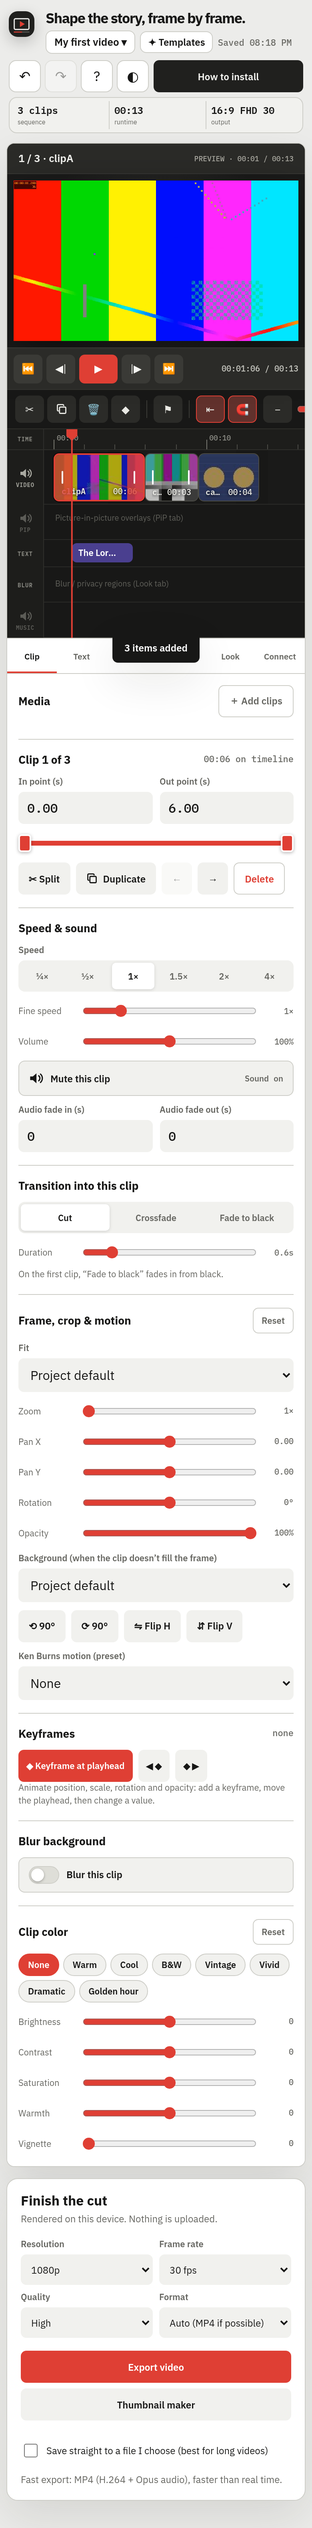
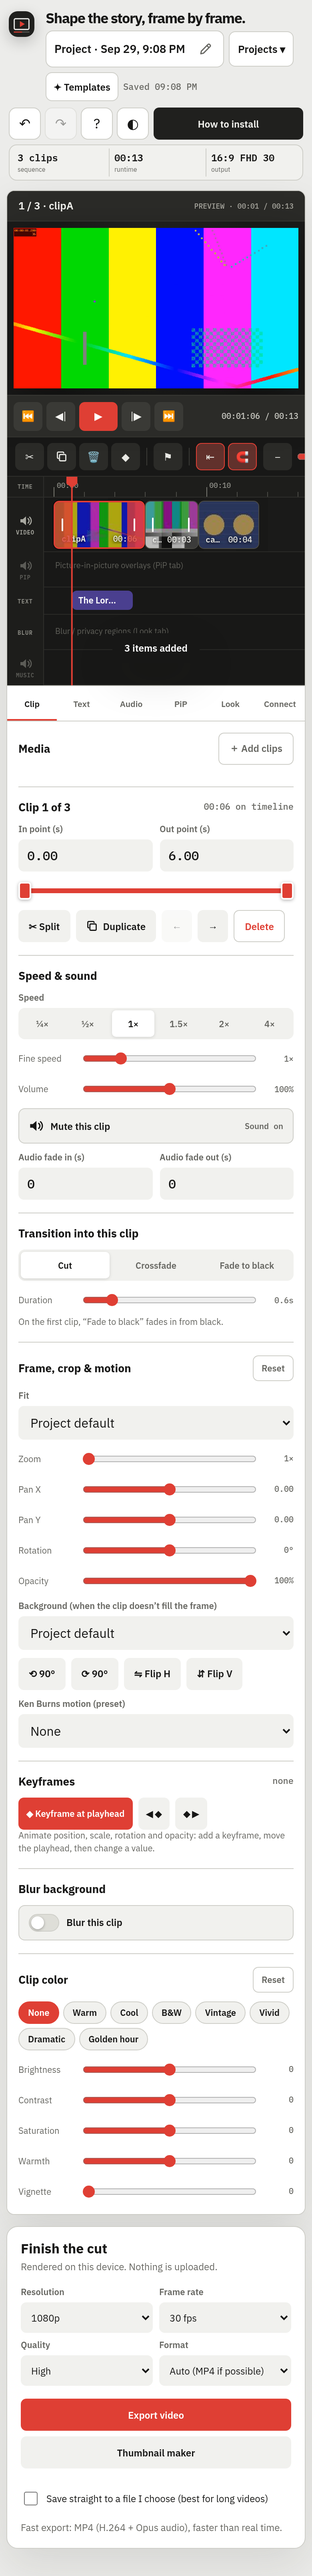
Project names: dated friendly defaults, editable header name with pencil, migrate Untitled project, richer project list

diff --git a/js/app.js b/js/app.js
@@ -10,7 +10,7 @@ import {
   newProject, migrate, layout, clipAt, clipLen, audioLen, newClipFromMedia, newText, newAudio, removeClip, duplicateClip,
   moveClip, rippleShift, History, PRESETS, FONTS, outputDims, defaultColor, defaultTransform, MIN_CLIP,
   newOverlay, overlayLen, animated, hasKeyframes, setKeyframe, kfTimes, removeKeyframesAt, setEaseAt, ANIM_PROPS, normalizeClip,
-  splitItem, audioSpan, rebaseKeyframes, overlaysAt, overlaySourceTime, thumbFormat, newBlur, animPropsOf, cleanBlur, cleanClipBlur, textLabel, blurLabel,
+  splitItem, audioSpan, defaultProjectName, cleanProjectName, fixedProjectName, rebaseKeyframes, overlaysAt, overlaySourceTime, thumbFormat, newBlur, animPropsOf, cleanBlur, cleanClipBlur, textLabel, blurLabel,
 } from './model.js';
 import { Compositor, drawLogo, ensureFonts, fontCss, wrapLines, TEXT_ANIMS_IN, TEXT_ANIMS_OUT } from './render.js';
 import { TEMPLATES, paintBackground } from './templates.js';
@@ -180,6 +180,7 @@ function renderAll() {
   $('undoBtn').disabled = !app.history.canUndo;
   $('redoBtn').disabled = !app.history.canRedo;
   $('projectName').textContent = app.project.name;
+  $('projectNameBtn').title = app.project.name + ' (tap to rename)';
   document.title = app.project.name + ' · Video Editor';
 }
 function syncHeads() {
@@ -1242,7 +1243,7 @@ async function openProject(id) {
 async function createProject(name) {
   if (app.ready) await flushPendingSave();
   player.pause();
-  app.project = newProject(name || 'Untitled project');
+  app.project = newProject(cleanProjectName(name) || defaultProjectName());
   app.selection = null; app.history.reset(app.project);
   releaseUnusedMedia();
   await saveNow();
@@ -1250,6 +1251,39 @@ async function createProject(name) {
   refreshCaps();
 }
 app.openProject = openProject;
+/** "Sep 29, 8:52 PM" (locale aware); the year only for another year. */
+function editedLabel(t) {
+  const d = new Date(t || Date.now()), o = { month: 'short', day: 'numeric', hour: 'numeric', minute: '2-digit' };
+  if (d.getFullYear() !== new Date().getFullYear()) o.year = 'numeric';
+  try { return new Intl.DateTimeFormat(undefined, o).format(d).replace(/[\u202f\u00a0]/g, ' '); } catch { return d.toLocaleString(); }
+}
+// Header project name: tap the name (or the pencil) to edit in place. Enter / leaving the field saves, Esc cancels,
+// empty falls back to the dated default name, 80 characters at most. One undo step.
+(() => {
+  const wrap = $('pnameWrap'), btn = $('projectNameBtn'), inp = $('projectNameInput'), pen = $('renameProjectBtn');
+  let cancelled = false, editing = false;
+  const stop = () => { editing = false; inp.hidden = true; btn.hidden = false; pen.hidden = false; wrap.classList.remove('editing'); };
+  const start = () => {
+    if (editing) return; editing = true; cancelled = false;
+    inp.value = app.project.name; btn.hidden = true; pen.hidden = true; inp.hidden = false; wrap.classList.add('editing');
+    inp.focus(); inp.select();
+  };
+  const save = () => {
+    if (!editing) return;
+    const n = cleanProjectName(inp.value) || defaultProjectName(app.project.created);
+    stop();
+    if (n !== app.project.name) { app.project.name = n; app.commit('Rename project'); toast('Project renamed'); }
+    btn.focus();
+  };
+  btn.addEventListener('click', start); pen.addEventListener('click', start);
+  inp.addEventListener('keydown', (e) => {
+    e.stopPropagation();
+    if (e.key === 'Enter') { e.preventDefault(); save(); }
+    else if (e.key === 'Escape') { e.preventDefault(); cancelled = true; stop(); btn.focus(); }
+  });
+  inp.addEventListener('blur', () => { if (editing && !cancelled) save(); });
+  app.editProjectName = start;
+})();
 async function renderProjectList() {
   const list = $('projectList'); list.replaceChildren();
   const projects = await db.listProjects();
@@ -1258,14 +1292,16 @@ async function renderProjectList() {
     let thumb = '';
     if (first) { const m = await media.get(first.mediaId); thumb = m && m.strip ? m.strip[0] : ''; }
     const dur = layout(migrate(p)).total;
-    const card = el('div', { class: 'project-card' + (p.id === app.project.id ? ' current' : '') },
+    const shown = p.id === app.project.id ? app.project.name : fixedProjectName(p);
+    const card = el('div', { class: 'project-card' + (p.id === app.project.id ? ' current' : ''), 'aria-current': p.id === app.project.id ? 'true' : null },
       el('div', { class: 'pthumb', style: thumb ? { backgroundImage: `url(${thumb})` } : {} }),
       el('div', {},
-        el('h3', { text: p.name }),
-        el('div', { class: 'pmeta', text: `${(p.clips || []).length} clips · ${fmt(dur)} · edited ${new Date(p.updated).toLocaleString()}` }),
+        el('h3', { title: shown }, shown, p.id === app.project.id ? el('span', { class: 'ptag', text: 'Current' }) : null),
+        el('div', { class: 'pmeta', text: `${(p.clips || []).length} ${(p.clips || []).length === 1 ? 'clip' : 'clips'} · ${fmt(dur)}` }),
+        el('div', { class: 'pmeta', text: 'Last edited ' + editedLabel(p.updated) }),
         el('div', { class: 'button-row' },
           el('button', { class: 'btn primary small', type: 'button', text: p.id === app.project.id ? 'Open (current)' : 'Open', onclick: async () => { await openProject(p.id); closeDialog('projectsDialog'); } }),
-          el('button', { class: 'btn secondary small', type: 'button', text: 'Rename', onclick: async () => { const n = prompt('Project name', p.name); if (!n) return; if (p.id === app.project.id) { app.project.name = n; app.commit('Rename'); await saveNow(); } else { p.name = n; p.updated = Date.now(); await db.saveProject(p); } renderProjectList(); renderAll(); } }),
+          el('button', { class: 'btn secondary small', type: 'button', text: 'Rename', onclick: async () => { const n0 = prompt('Project name', shown); if (n0 === null) return; const n = cleanProjectName(n0) || defaultProjectName(p.created || p.updated); if (p.id === app.project.id) { app.project.name = n; app.commit('Rename project'); await saveNow(); } else { p.name = n; p.updated = Date.now(); await db.saveProject(p); } renderProjectList(); renderAll(); } }),
           el('button', { class: 'btn secondary small', type: 'button', text: 'Duplicate', onclick: async () => { if (p.id === app.project.id) await saveNow(); const src = p.id === app.project.id ? JSON.parse(JSON.stringify(app.project)) : p; const c = { ...deepClone(src), id: uid('prj'), name: src.name + ' copy', created: Date.now(), updated: Date.now() }; await db.saveProject(c); renderProjectList(); toast('Project duplicated'); } }),
           el('button', { class: 'btn secondary small', type: 'button', text: 'Export', onclick: () => exportProjectFile(p.id) }),
           el('button', { class: 'btn ghost danger small', type: 'button', text: 'Delete', onclick: async () => {
@@ -1285,7 +1321,7 @@ async function renderProjectList() {
   }
 }
 $('projectBtn').onclick = () => { renderProjectList(); openDialog('projectsDialog'); };
-$('newProject').onclick = async () => { const n = prompt('Name your new project', 'Untitled project'); if (n === null) return; await createProject(n || 'Untitled project'); closeDialog('projectsDialog'); toast('New project created'); };
+$('newProject').onclick = async () => { const n = prompt('Name your new project (leave empty for the date)', defaultProjectName()); if (n === null) return; await createProject(cleanProjectName(n) || defaultProjectName()); closeDialog('projectsDialog'); toast('New project created'); };
 /**
  * Project file. With media: a .vedit file (tar) holding project.json plus every media file as raw bytes. It's assembled
  * from Blob parts that reference the stored media, so nothing is base64-encoded or copied into one giant string.
@@ -1330,7 +1366,7 @@ async function importProjectFile(file) {
       else missing++;
     }
     const p = migrate(src);
-    p.id = uid('prj'); p.name = String(src.name || 'Imported').slice(0, 200); p.updated = Date.now();
+    p.id = uid('prj'); p.updated = Date.now(); // (migrate already gave a placeholder name a dated one)
     await db.saveProject(p);
     await openProject(p.id);
     closeDialog('projectsDialog');
@@ -1835,10 +1871,12 @@ async function boot() {
   const ripple = await db.kvGet('ripple').catch(() => null); if (ripple === false) { app.rippleEnabled = false; $('rippleBtn').setAttribute('aria-pressed', 'false'); }
   const snap = await db.kvGet('snap').catch(() => null); if (snap === false) { app.snapEnabled = false; $('snapBtn').setAttribute('aria-pressed', 'false'); }
   ensureFonts().then(() => player.requestRender());
+  // projects saved as "Untitled project" (or with no name) get a dated name from their created / updated time; other names are untouched
+  try { for (const sp of await db.listProjects()) { const fx = fixedProjectName(sp); if (fx !== sp.name) { sp.name = fx; await db.saveProject(sp); } } } catch (e) { console.warn('project name migration', e); }
   const last = await db.kvGet('lastProject').catch(() => null);
   let ok = last ? await openProject(last) : false;
   if (!ok) { const all = await db.listProjects(); if (all.length) ok = await openProject(all[0].id); }
-  if (!ok) await createProject('My first video');
+  if (!ok) await createProject();
   const onboarded = await db.kvGet('onboarded').catch(() => true);
   if (!onboarded) { if (app.project.clips.length) db.kvSet('onboarded', true).catch(() => { }); else $('onboard').hidden = false; }
   // files shared to the installed app (Android share sheet → share_target)

diff --git a/js/model.js b/js/model.js
@@ -28,8 +28,26 @@ export const defaultColor = () => ({ preset: 'none', brightness: 0, contrast: 0,
 export const defaultTransform = () => ({ zoom: 1, x: 0, y: 0, rotate: 0, angle: 0, flipH: false, flipV: false, kenBurns: 'none', kbFrom: 0, kbTo: 1 });
 export const defaultChroma = () => ({ enabled: false, color: '#00ff00', similarity: 0.4, smoothness: 0.15, spill: 0.5 });
 
-export function newProject(name = 'Untitled project') {
+export const PROJECT_NAME_MAX = 80;
+/** Friendly dated default for a project: "Project · Sep 29, 8:52 PM" (locale aware; the year is added for another year). */
+export function defaultProjectName(time = Date.now(), locale) {
+  const d = new Date(Number.isFinite(time) ? time : Date.now());
+  const opts = { month: 'short', day: 'numeric', hour: 'numeric', minute: '2-digit' };
+  if (d.getFullYear() !== new Date().getFullYear()) opts.year = 'numeric';
+  let s; try { s = new Intl.DateTimeFormat(locale, opts).format(d); } catch { s = d.toLocaleString(); }
+  return 'Project · ' + s.replace(/[\u202f\u00a0]/g, ' ');
+}
+/** A name typed by the user: whitespace collapsed, limited to 80 characters; '' when nothing is left. */
+export const cleanProjectName = (n) => (typeof n === 'string' ? n.replace(/\s+/g, ' ').trim().slice(0, PROJECT_NAME_MAX) : '');
+/** Old projects called "Untitled project" (any case) or with no name get a dated name from their created / updated time; every other name is kept. */
+export function isPlaceholderName(n) { return typeof n !== 'string' || !n.trim() || /^untitled( project)?$/i.test(n.trim()); }
+export function fixedProjectName(p) {
+  return isPlaceholderName(p && p.name) ? defaultProjectName((p && (p.created || p.updated)) || Date.now()) : p.name;
+}
+
+export function newProject(name) {
   const now = Date.now();
+  name = isPlaceholderName(name) ? defaultProjectName(now) : name;
   return {
     schema: SCHEMA, id: uid('prj'), name, created: now, updated: now,
     settings: { ratio: '16:9', res: 1080, fps: 30, quality: 'high', format: 'auto', fit: 'contain', bg: 'black', bgColor: '#000000', imageDuration: 4, endFade: 0 },
@@ -43,6 +61,7 @@ export function newProject(name = 'Untitled project') {
 export function migrate(p) {
   const base = newProject(p.name);
   const out = Object.assign(base, p);
+  out.name = fixedProjectName(out);
   out.settings = Object.assign(base.settings, p.settings || {});
   out.color = Object.assign(defaultColor(), p.color || {});
   out.thumb = Object.assign(newProject().thumb, p.thumb || {});

diff --git a/index.html b/index.html
@@ -4,7 +4,7 @@
   <meta charset="utf-8" />
   <meta name="viewport" content="width=device-width, initial-scale=1, viewport-fit=cover" />
   <meta name="color-scheme" content="light dark" />
-  <meta name="ve-build" content="vb4aaeecb57" />
+  <meta name="ve-build" content="v67fe784aeb" />
   <meta name="theme-color" content="#20201e" media="(prefers-color-scheme: light)" />
   <meta name="theme-color" content="#090909" media="(prefers-color-scheme: dark)" />
   <!-- Defense in depth: only this site's own scripts, styles, fonts, workers and wasm; media from blob:/data: URLs. -->
@@ -43,7 +43,7 @@
       <img src="icons/icon-192.png" alt="" width="40" height="40" />
       <div>
         <h1>Shape the story, frame by frame.</h1>
-        <p><button class="project-btn" id="projectBtn" type="button" aria-haspopup="dialog"><span id="projectName">Untitled project</span> <span aria-hidden="true">▾</span></button> <button class="project-btn tpl-btn" id="templatesBtn" type="button" aria-haspopup="dialog">✦ Templates</button> <span class="save-state" id="saveState" role="status" aria-live="polite">Not saved yet</span></p>
+        <p><span class="pname" id="pnameWrap"><button class="pname-text" id="projectNameBtn" type="button" title="Tap to rename this project" aria-label="Project name, tap to edit"><span id="projectName">Project</span></button><input class="pname-input" id="projectNameInput" maxlength="80" autocomplete="off" spellcheck="false" enterkeyhint="done" aria-label="Project name" hidden /><button class="pname-edit" id="renameProjectBtn" type="button" title="Rename project" aria-label="Rename project"><svg class="ico" viewBox="0 0 16 16" aria-hidden="true"><path d="M2 14l.7-3.3L11 2.4a1.4 1.4 0 0 1 2 0l.6.6a1.4 1.4 0 0 1 0 2L5.3 13.3z" fill="none" stroke="currentColor" stroke-width="1.5" stroke-linejoin="round"/><path d="M9.6 3.8l2.6 2.6" stroke="currentColor" stroke-width="1.5"/></svg></button></span> <button class="project-btn" id="projectBtn" type="button" aria-haspopup="dialog">Projects <span aria-hidden="true">▾</span></button> <button class="project-btn tpl-btn" id="templatesBtn" type="button" aria-haspopup="dialog">✦ Templates</button> <span class="save-state" id="saveState" role="status" aria-live="polite">Not saved yet</span></p>
       </div>
     </div>
     <div class="masthead-actions">

diff --git a/css/app.css b/css/app.css
@@ -458,3 +458,20 @@ kbd{font:600 11px "IBM Plex Mono",monospace;background:var(--surface-2);border:1
 .progress-bar.indet{width:35%!important;animation:indet 1.1s ease-in-out infinite alternate}
 @keyframes indet{from{margin-left:0}to{margin-left:65%}}
 @media(prefers-reduced-motion:reduce){.progress-bar.indet{animation:none;width:100%!important;opacity:.5}}
+
+/* editable project name in the header */
+.pname{display:inline-flex;align-items:center;min-width:0;max-width:100%;border:1px solid var(--line);background:var(--surface);border-radius:9px;color:var(--ink)}
+.pname-text{border:0;background:transparent;color:var(--ink);font-weight:600;font-size:14px;line-height:1;font-family:inherit;min-height:44px;padding:0 4px 0 12px;cursor:text;min-width:0;max-width:min(360px,calc(100vw - 110px));overflow:hidden;text-overflow:ellipsis;white-space:nowrap;text-align:left}
+.pname-text span{display:block;overflow:hidden;text-overflow:ellipsis;white-space:nowrap}
+.pname-edit{border:0;background:transparent;color:var(--muted);width:44px;height:44px;flex:none;display:inline-grid;place-items:center;cursor:pointer;padding:0;border-radius:0 8px 8px 0}
+.pname-edit:hover{color:var(--ink);background:var(--surface-2)}
+.pname-edit .ico{width:16px;height:16px}
+.pname-input{border:0;background:transparent;color:var(--ink);font-weight:600;font-size:16px;line-height:1;font-family:inherit;min-height:44px;padding:0 4px 0 12px;width:min(340px,calc(100vw - 110px));min-width:0;outline:0}
+.pname-input[hidden]{display:none}
+.pname.editing{border-color:var(--accent);box-shadow:0 0 0 2px color-mix(in srgb,var(--accent) 25%,transparent)}
+#projectBtn{min-height:44px}
+@media(max-width:620px){.masthead p{gap:6px}.pname-text{padding-left:10px}.tpl-btn{min-height:36px}}
+.project-card.current{background:color-mix(in srgb,var(--accent) 9%,var(--surface-2));box-shadow:inset 4px 0 var(--accent)}
+.project-card .ptag{display:inline-block;margin-left:8px;padding:1px 7px;border-radius:9px;background:var(--accent);color:var(--accent-ink);font:600 10px/1.5 "IBM Plex Sans",sans-serif;vertical-align:middle}
+.project-card .pmeta{line-height:1.5}
+.project-card > div:last-child{min-width:0}

diff --git a/sw.js b/sw.js
@@ -1,5 +1,5 @@
 /* Video Editor service worker: offline app shell (versioned cache) + share target inbox. */
-const VERSION = 'vb4aaeecb57';
+const VERSION = 'v67fe784aeb';
 const CACHE = 'video-editor-shell-' + VERSION;
 const SHELL = [
   './', './index.html', './manifest.webmanifest',

diff --git a/js/build.js b/js/build.js
@@ -1,2 +1,2 @@
 // Written by bump-version.py. Must equal <meta name="ve-build"> in index.html, or the page reloads itself once.
-export const BUILD = 'vb4aaeecb57';
+export const BUILD = 'v67fe784aeb';

diff --git a/README.md b/README.md
@@ -28,7 +28,7 @@ The app is plain static files (HTML, CSS and ES modules). There's no build step.
   - **Fast engine:** WebCodecs through the vendored [Mediabunny](https://mediabunny.dev) library (MPL-2.0). It decodes and encodes frame by frame, so it isn't tied to real time and audio/video sync is frame-accurate.
   - **Fallback engine:** a real-time canvas + MediaRecorder recording. It prefers MP4 when the browser supports it and falls back to WebM.
 - **Thumbnail maker:** pick a frame, add a headline, a small line and an accent color, then download it as a JPG (kept under 2 MB, quality and size are lowered automatically if needed) or PNG. Choose the format: **Widescreen 16:9 (1280×720)**, **Vertical 9:16 for Shorts (1080×1920)** or **Square (1080×1080)**. It defaults to your project's aspect ratio. Text is laid out inside a safe area (shown as a dashed guide that is not saved in the image), shrinks to fit narrow Shorts widths, and the layout can be Left, Center, Right, Top band or Bottom band. Picture-in-picture overlays and the logo are included (each can be switched off). Files are named like `My-Video-thumbnail-shorts-1080x1920.jpg` (or `-widescreen-1280x720`, `-square-1080x1080`).
-- **Projects:** the project and its media blobs autosave to IndexedDB. A status label shows *Unsaved changes*, *Saving…*, *Saved hh:mm* or *Save failed – retrying*, and failed saves retry automatically. Older saved projects are migrated to the current schema when they open. The project list lets you create, open, rename, duplicate and delete. Switching projects saves pending edits first and frees the previous project's decoded media. You can export a project as a small `.vedit.json` (media stays on the device) or, with media included, as a `.vedit` file: a standard tar archive holding `project.json` plus each media file as raw bytes, streamed straight from storage (no base64, so it's about the size of the media). Older `.vedit.json` files with base64-embedded media still import. Media that wasn't embedded can be relinked.
+- **Projects:** the project and its media blobs autosave to IndexedDB. A status label shows *Unsaved changes*, *Saving…*, *Saved hh:mm* or *Save failed – retrying*, and failed saves retry automatically. Older saved projects are migrated to the current schema when they open. The project list lets you create, open, rename, duplicate and delete. Switching projects saves pending edits first and frees the previous project's decoded media. You can export a project as a small `.vedit.json` (media stays on the device) or, with media included, as a `.vedit` file: a standard tar archive holding `project.json` plus each media file as raw bytes, streamed straight from storage (no base64, so it's about the size of the media). Older `.vedit.json` files with base64-embedded media still import. Media that wasn't embedded can be relinked. **Project names:** a new project is named like `Project · Sep 29, 8:52 PM` (locale aware, never “Untitled”). In the header, tap the name or the pencil to rename it in place: Enter or leaving the field saves, Esc cancels, an empty name goes back to the dated default, 80 characters at most, one undo step; long names are cut with an ellipsis. Projects saved as “Untitled project” (or with no name) are renamed from their created time the first time this version opens them; every other name is kept. The **Projects** list shows each project's name, clip count, length and last-edited time, and marks the current one. Export, thumbnail and share file names use the project name with unsafe characters removed.
 - **PWA:**
   - A real manifest with icons, including maskable and Apple touch icons.
   - A service worker that caches the app shell for offline use under a versioned cache. The page and its scripts are always served from the same cached version. `bump-version.py` stamps one build id into `sw.js`, `index.html` and `js/build.js`; if a stale page ever meets newer scripts, the app resets its offline copy and reloads itself once.
